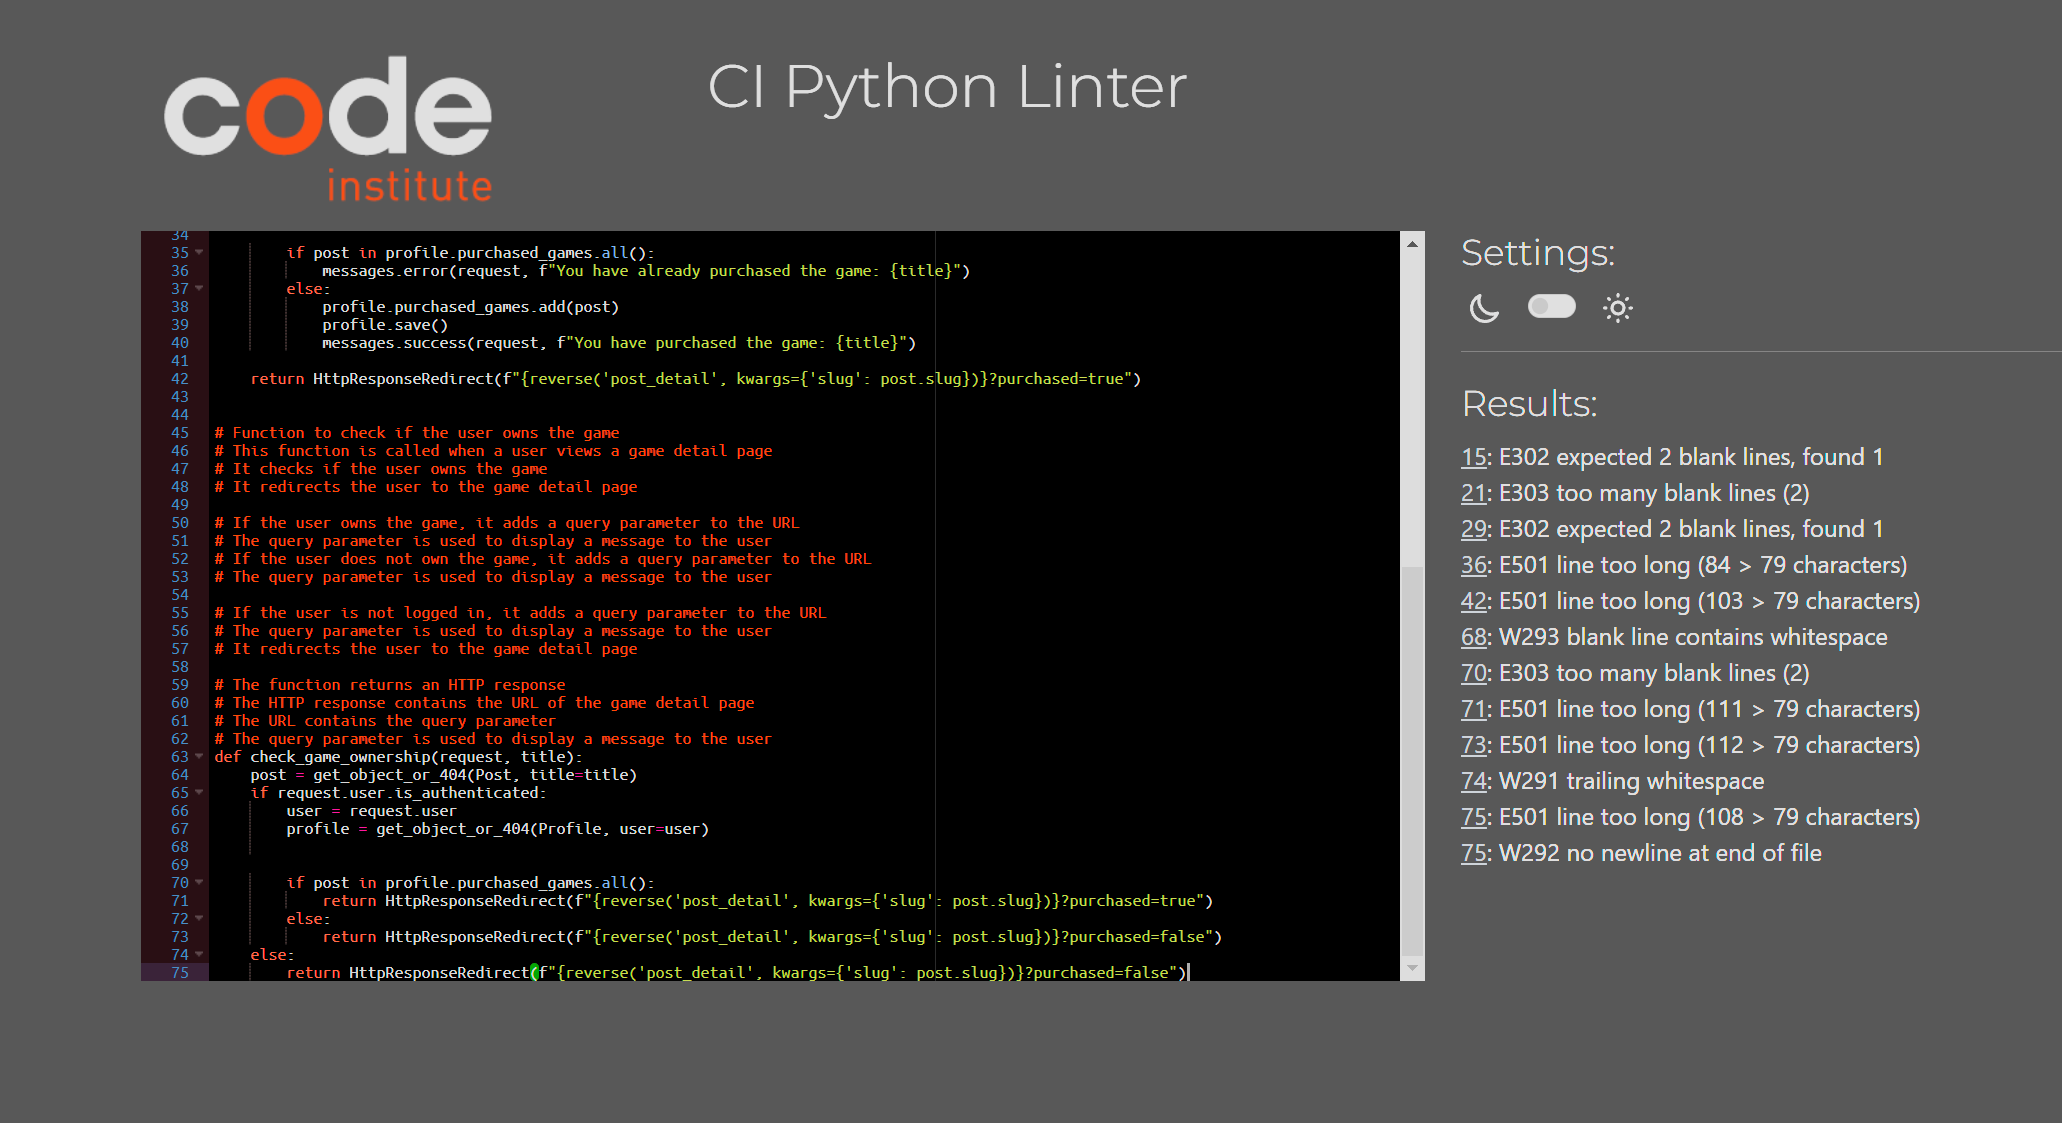
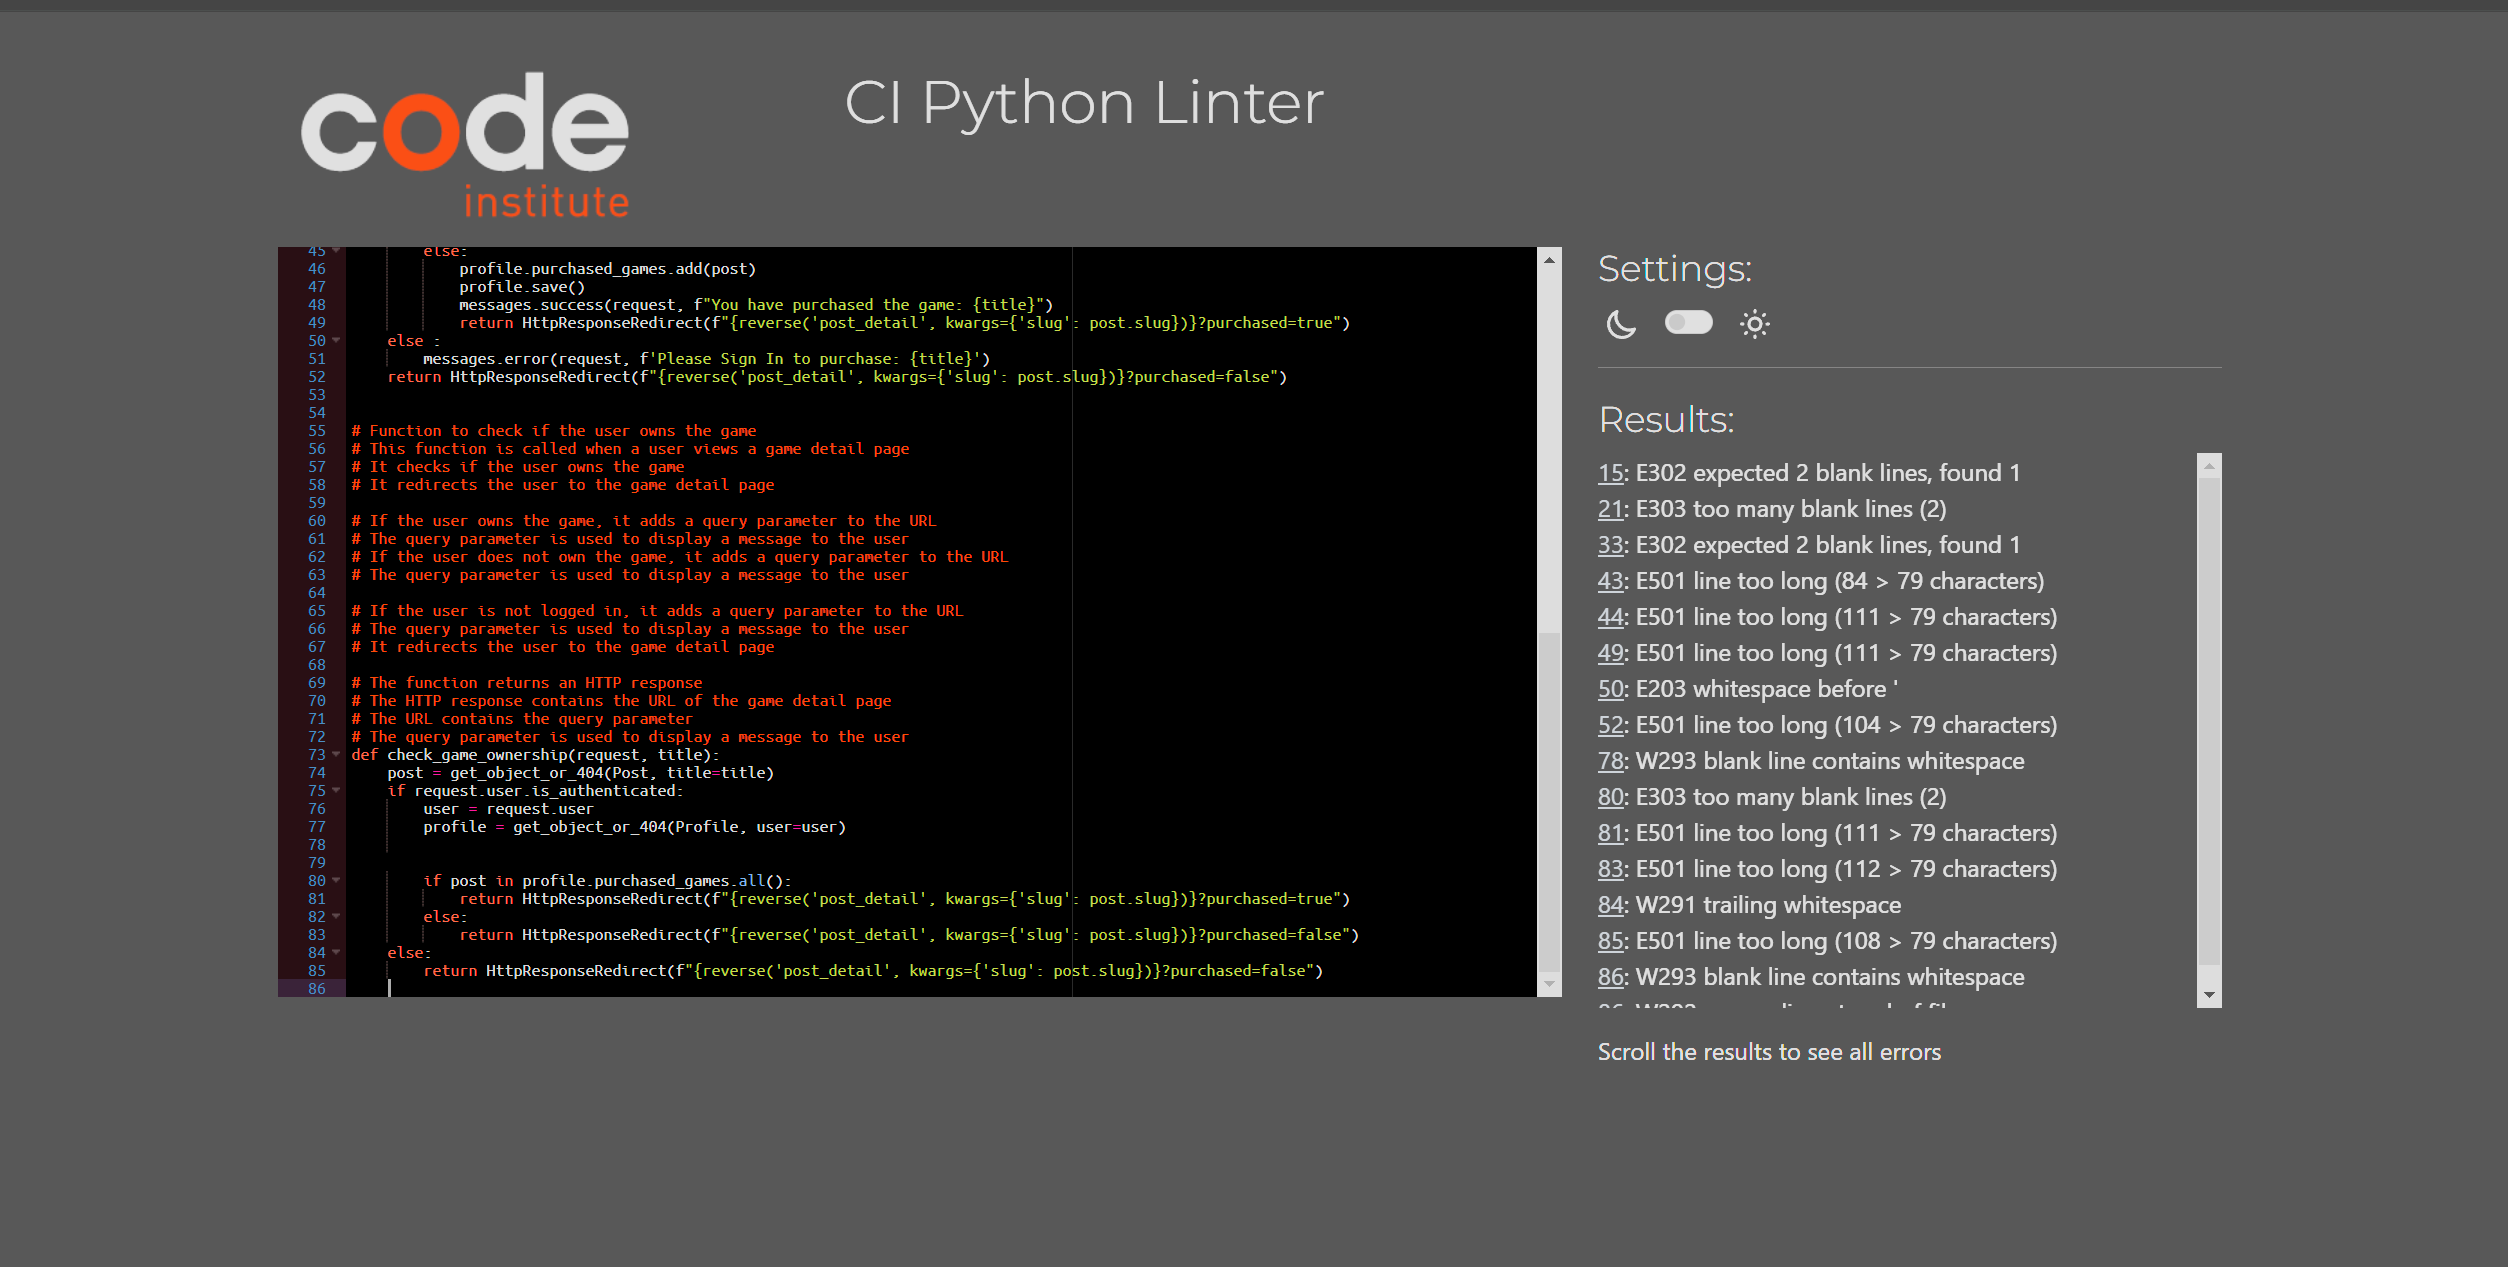
Fixed Bug, When User is signed out and tries to purchase game it will 404, now it will redirect back to game_details slug and show a message to sign in to purchase

Changed region(s): [[0.0621, 0.0312, 0.9311, 0.8727], [0.3414, 0.0623, 0.5897, 0.0935]]

diff --git a/account_profile/views.py b/account_profile/views.py
@@ -26,20 +26,30 @@ class ProfileDetailedView(DetailView, LoginRequiredMixin):
 # It adds the game to the user's purchased games
 # It also displays a message to the user
 # It redirects the user to the game detail page
+
+# If the user is not logged in, it displays a message to the user
+# It redirects the user to the game detail page
+
 def move_game_to_chosen(request, title):
-    if request.method == 'POST':
-        user = request.user
-        profile = get_object_or_404(Profile, user=user)
-        post = get_object_or_404(Post, title=title)
+    post = get_object_or_404(Post, title=title)
+    if request.user.is_authenticated:
+        if request.method == 'POST':
+            user = request.user
+            profile = get_object_or_404(Profile, user=user)
+        else:
+            post = get_object_or_404(Post, title=title)
 
         if post in profile.purchased_games.all():
             messages.error(request, f"You have already purchased the game: {title}")
+            return HttpResponseRedirect(f"{reverse('post_detail', kwargs={'slug': post.slug})}?purchased=true")
         else:
             profile.purchased_games.add(post)
             profile.save()
             messages.success(request, f"You have purchased the game: {title}")
-
-    return HttpResponseRedirect(f"{reverse('post_detail', kwargs={'slug': post.slug})}?purchased=true")
+            return HttpResponseRedirect(f"{reverse('post_detail', kwargs={'slug': post.slug})}?purchased=true")
+    else :
+        messages.error(request, f'Please Sign In to purchase: {title}')
+    return HttpResponseRedirect(f"{reverse('post_detail', kwargs={'slug': post.slug})}?purchased=false")
 
 
 # Function to check if the user owns the game
@@ -73,3 +83,4 @@ def check_game_ownership(request, title):
             return HttpResponseRedirect(f"{reverse('post_detail', kwargs={'slug': post.slug})}?purchased=false")
     else:   
         return HttpResponseRedirect(f"{reverse('post_detail', kwargs={'slug': post.slug})}?purchased=false")
+    
